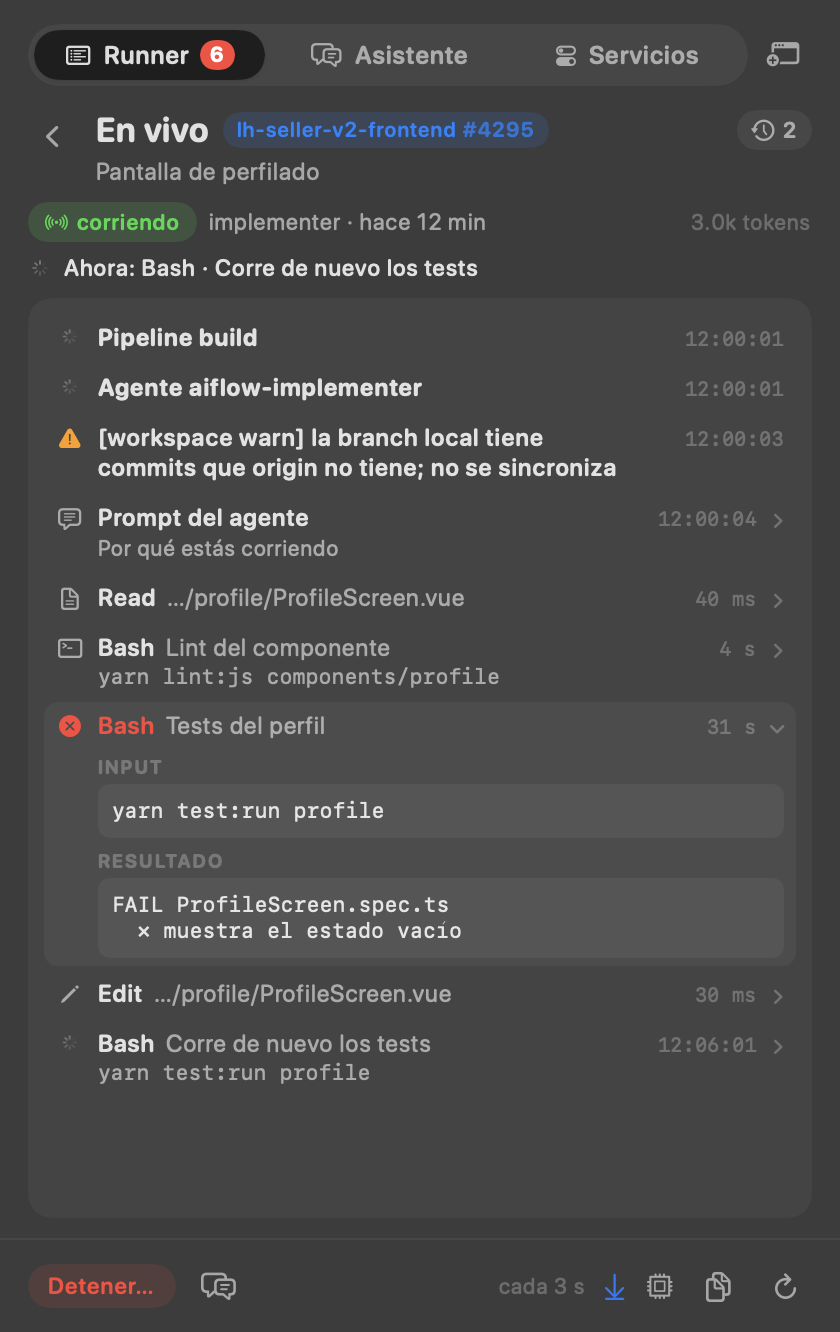
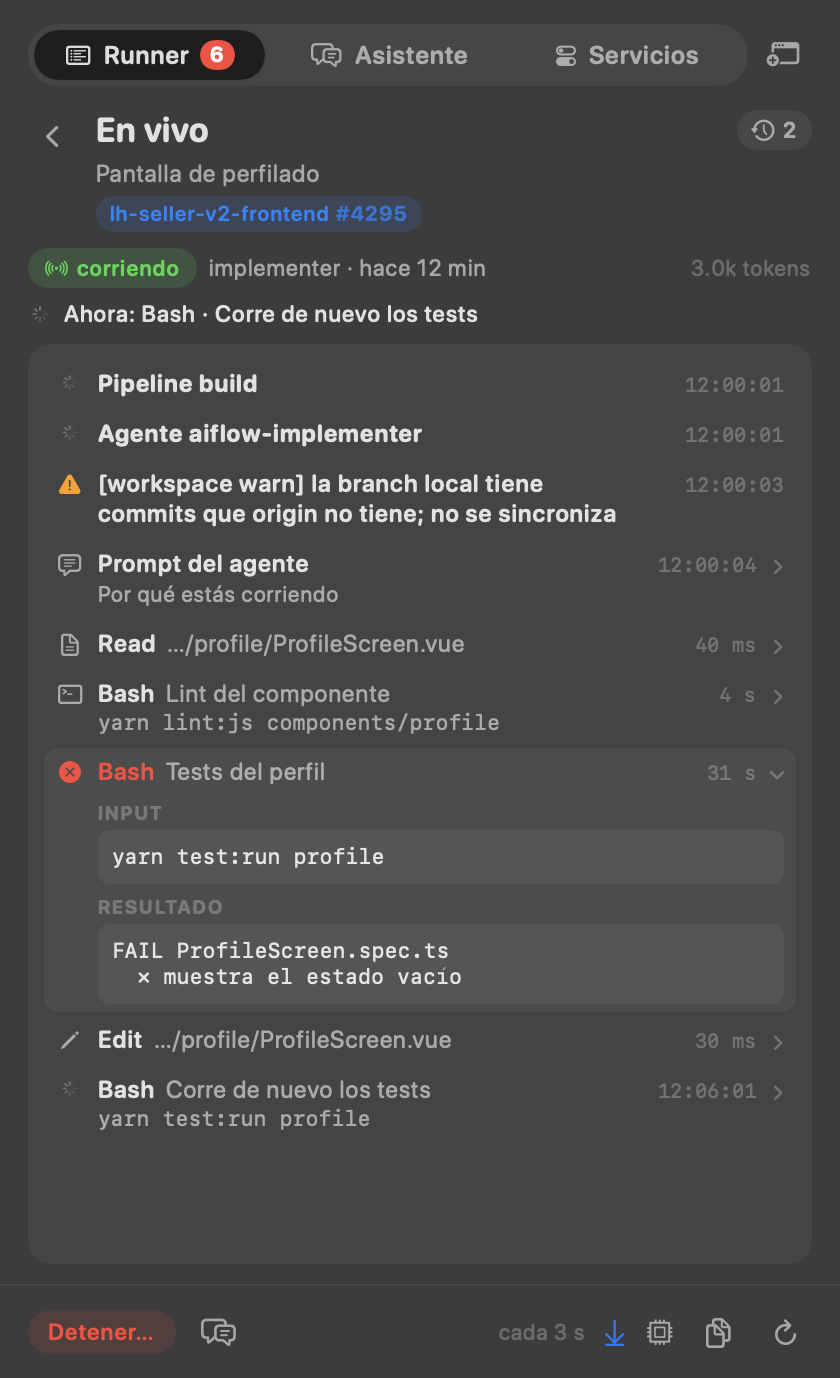
fix(menubar): el título del detalle en una línea; la ref y el PR van debajo del nombre
Con los chips al lado, «En vivo» se partía en dos líneas. El nombre de la tarea ahora usa
hasta dos.

diff --git a/apps/menubar/RunTraceViews.swift b/apps/menubar/RunTraceViews.swift
@@ -30,16 +30,19 @@ struct RunTraceScreen: View {
     private var header: some View {
         HStack(alignment: .top, spacing: 8) {
             IconButton(symbol: "chevron.left", help: "Volver") { runner.closeRun() }
-            VStack(alignment: .leading, spacing: 3) {
+            // El título solo en su línea (con los chips al lado se partía en dos); la ref y el PR, debajo del nombre.
+            VStack(alignment: .leading, spacing: 4) {
+                Text(watch.running ? "En vivo" : "Ejecución").font(.lh(17, .bold)).lineLimit(1).fixedSize()
+                Text(watch.item.displayTitle).font(.lh(12)).foregroundStyle(.secondary).lineLimit(2)
+                    .fixedSize(horizontal: false, vertical: true)
                 HStack(spacing: 6) {
-                    Text(watch.running ? "En vivo" : "Ejecución").font(.lh(17, .bold))
-                    Button { runner.open(watch.item) } label: { refTag(watch.ref) }.buttonStyle(.plain).help("Abrir \(watch.ref) en GitHub")
+                    Button { runner.open(watch.item) } label: { refTag(watch.ref) }.buttonStyle(.plain).fixedSize()
+                        .help("Abrir \(watch.ref) en GitHub")
                     if let pr = watch.item.pr {
                         Button { runner.openPR(watch.item) } label: { Chip(text: "PR #\(pr.number)", tone: .info, icon: "arrow.up.right") }
                             .buttonStyle(.plain).fixedSize().help("Abrir el PR #\(pr.number) en GitHub")
                     }
                 }
-                Text(watch.item.displayTitle).font(.lh(12)).foregroundStyle(.secondary).lineLimit(1)
                 BlockersLine(runner: runner, item: watch.item)
             }
             Spacer(minLength: 4)
